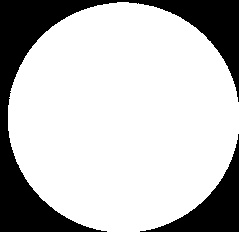
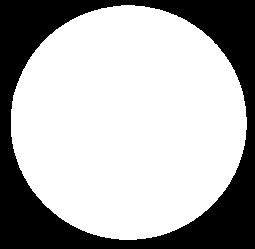
Dilatação e Erosão funcionando

diff --git a/Morfologia/morfo.py b/Morfologia/morfo.py
@@ -2,44 +2,55 @@
 
 import numpy as np
 import cv2
+from operator import xor
+
+#Os elementos estruturantes devem ter dimensões ímpares para que a origem esteja em um pixel central
 
 def dilata(img, elem):
-    # elem = np.zeros((30,30), np.uint8)
-    out = np.zeros(img.shape, np.uint8)
+    out = np.zeros((img.shape[0] + 2*elem.shape[0], img.shape[1] + 2*elem.shape[1]), np.uint8)
 
-    # out[::] = 255
-    elem_center = (elem.size[0]/2, elem.size[1]/2) #Centro do elemento (no caso da esfera pixel [9,9])
-
+    ec = (elem.shape[0]/2, elem.shape[1]/2) #Centro do elemento (no caso da esfera pixel [2,2])
 
     for x in range(img.shape[1]):
         for y in range(img.shape[0]):
-            if(img[y,x] == 255):
-                for xe in range(elem.shape[1]):
-                    for ye in range(elem.shape[0]):
-                        if(elem[ye,xe] == 255):
-                            out[y+ye, x+xe] = 255
+            found = False
+            for xe in range(-ec[1], ec[1]+1):
+                if(found):
+                    break
+                for ye in range(-ec[0], ec[0]+1):
+                    if(y+ye >=0 and y+ye < img.shape[0] and x+xe >=0 and x+xe < img.shape[1]):
+                        if(elem[ec[0]+ye, ec[1]+xe] and img[y+ye, x+xe]):
+                            out[y+elem.shape[0],x+elem.shape[1]] = 255
+                            found = True
+                            break
+
     return out
 
 def erode(img, elem):
-    # elem = np.zeros((30,30), np.uint8)
     out = np.zeros(img.shape, np.uint8)
 
-    # out[::] = 255
+
+    ec = (elem.shape[0]/2, elem.shape[1]/2) #Centro do elemento (no caso da esfera pixel [2,2])
+
 
     for x in range(img.shape[1]):
         for y in range(img.shape[0]):
-            if(img[y,x] == 255):
-                for xe in range(elem.shape[1]):
-                    fail = False
-                    for ye in range(elem.shape[0]):
-                        if(elem[ye,xe] == 255):
-                            if(img[y+ye, x+xe] == 0):
-                                fail = True
-                                break
-                    if(fail):
+            cant_hold = False
+            for xe in range(-ec[1], ec[1]+1):
+                if(cant_hold):
+                    break
+                for ye in range(-ec[0], ec[0]+1):
+                    if(y+ye >=0 and y+ye < img.shape[0] and x+xe >=0 and x+xe < img.shape[1]):
+
+                        if(elem[ec[0]+ye, ec[1]+xe] and not img[y+ye, x+xe]):
+                            cant_hold = True
+                            break
+                    else:
+                        cant_hold = True
                         break
-                else:
-                    out[y,x] = 255
+
+            else:
+                out[y,x] = 255
     return out
 
 # if __name__ == "__main__":

diff --git a/Morfologia/geraElementoMoeda.py b/Morfologia/geraElementoMoeda.py
@@ -34,11 +34,12 @@ def geraElemento(img, dilat, limite):
                     y_max = y
             else:
                 temp[y,x] = 0
-    cv2.imshow("oi", temp)
+    out = mo.dilata(temp, dilat)
+    cv2.imshow("oi", out)
     cv2.waitKey()
     cv2.destroyAllWindows()
 
-    out = np.copy(temp[y_min:y_max, x_min:x_max])
+    # out = np.copy(temp[y_min:y_max, x_min:x_max])
     # out = np.where(out < limite, 0, 255)
     return out
 
@@ -50,7 +51,7 @@ if __name__ == "__main__":
     #argv[3] = threshold para limiarização
     argv = sys.argv
     img = cv2.imread(argv[1], 0)
-    dilatador = cv2.imread(argv[2])
+    dilatador = cv2.imread(argv[2], 0)
     name_ext = argv[1].split('.')
     elem = geraElemento(img, dilatador, int(argv[3]))
     cv2.imwrite(name_ext[0] + "_elem." + name_ext[1], elem)
